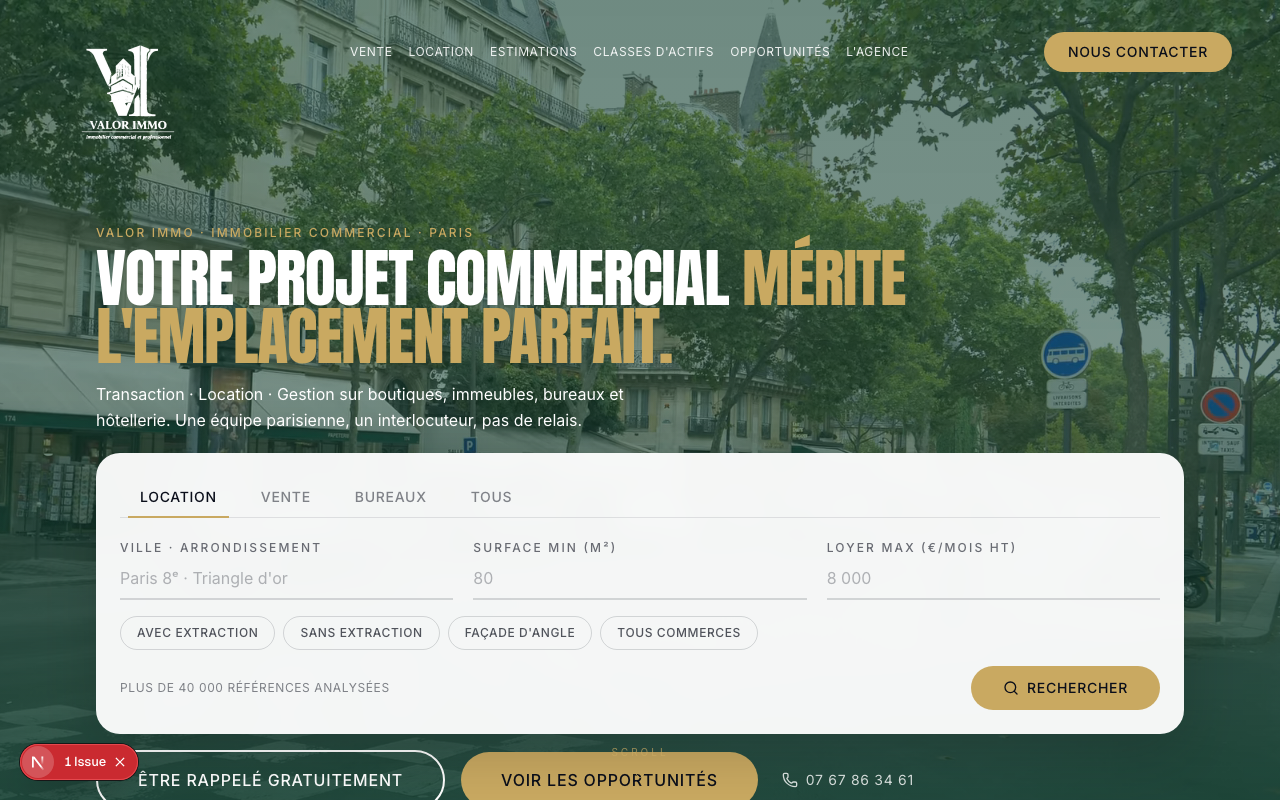
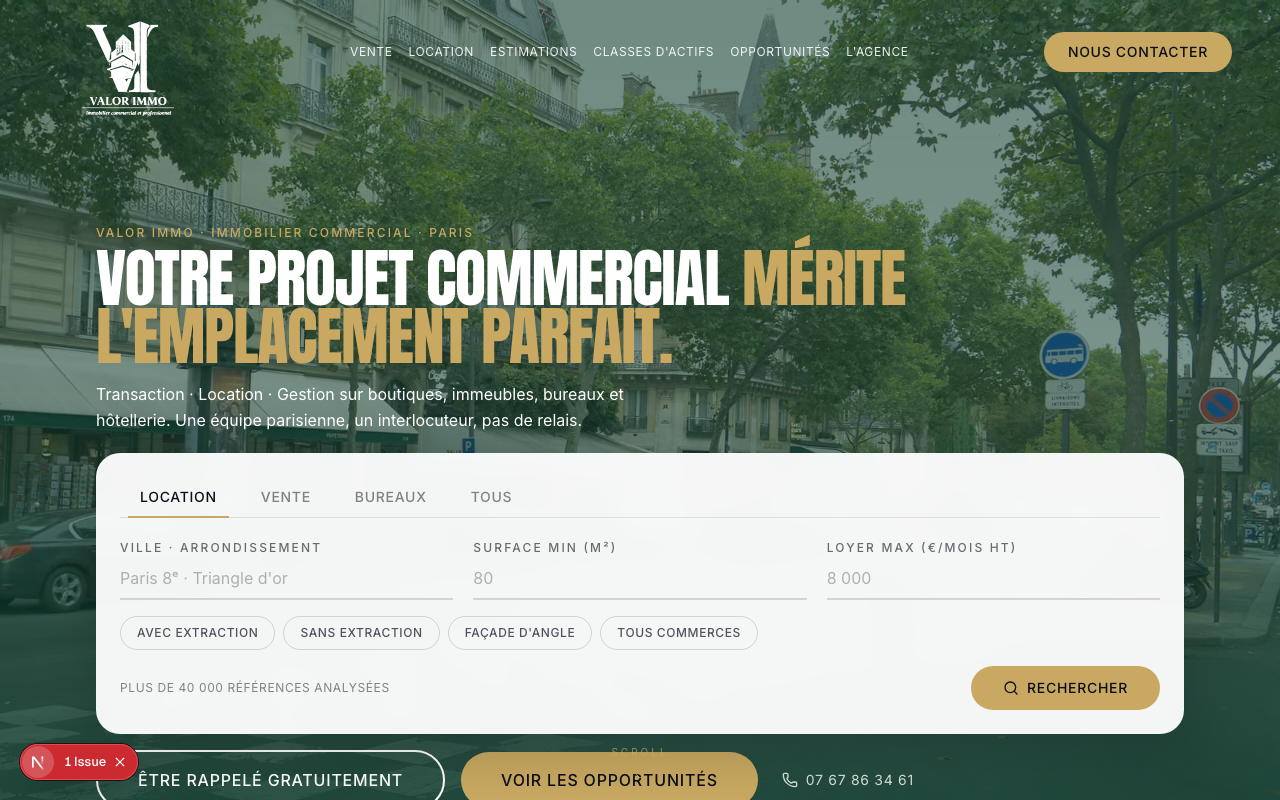
fix(ui): hero crest — remonte de 24px supplémentaires (top-6 → top-0)
Image-top de 24px → 0px. V tip remonte de y=46 à y=22 (image flush au
top du viewport). Le crest chevauche désormais clairement la bande
SiteHeader, V au-dessus des liens nav.

Mesure : V crest y=22, V VENTE y=47 → Δ = -25px (crest 25px plus haut).

Contraintes intactes (left, taille, z-index, hero 100vh).

diff --git a/components/home/hero.tsx b/components/home/hero.tsx
@@ -67,7 +67,7 @@ export function Hero() {
       {/* Crest XL — aligné top-left sur les coordonnées exactes du SiteHeader
           (mêmes max-w-[1440px] + paddings inline + top sur le baseline des liens
           nav). Le SiteHeader reste cliquable au-dessus en z-50. */}
-      <div className="pointer-events-none absolute inset-x-0 top-6 z-10 hidden lg:block">
+      <div className="pointer-events-none absolute inset-x-0 top-0 z-10 hidden lg:block">
         <div className="mx-auto flex max-w-[1440px] px-6 md:px-12 lg:px-12 2xl:px-24">
           <HeroLogo />
         </div>
